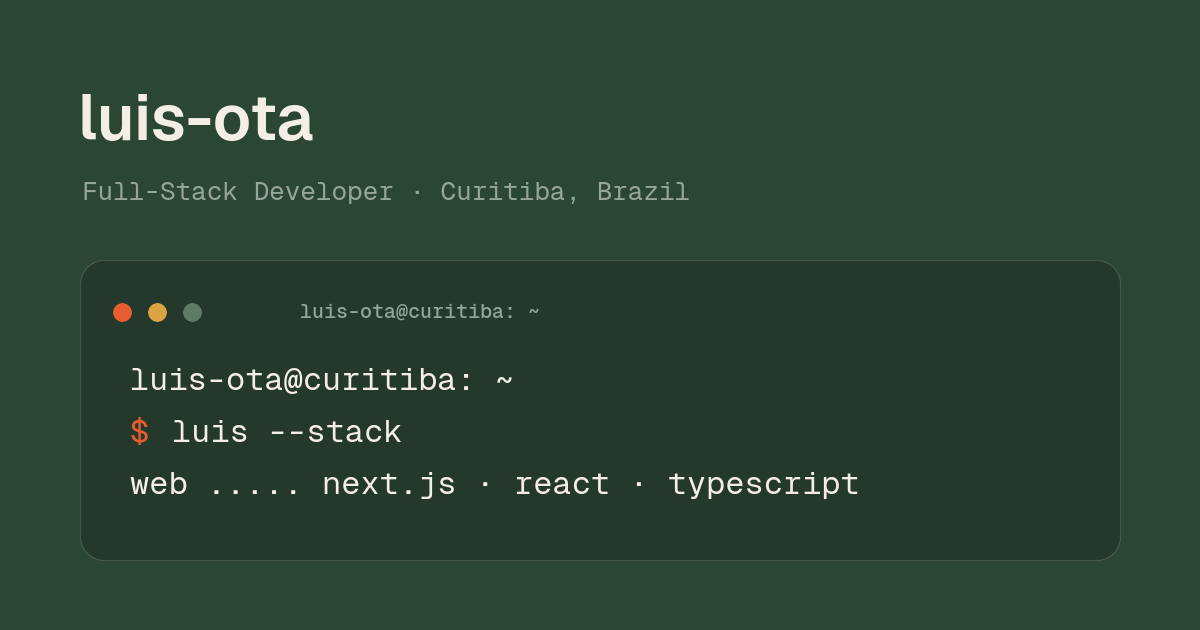
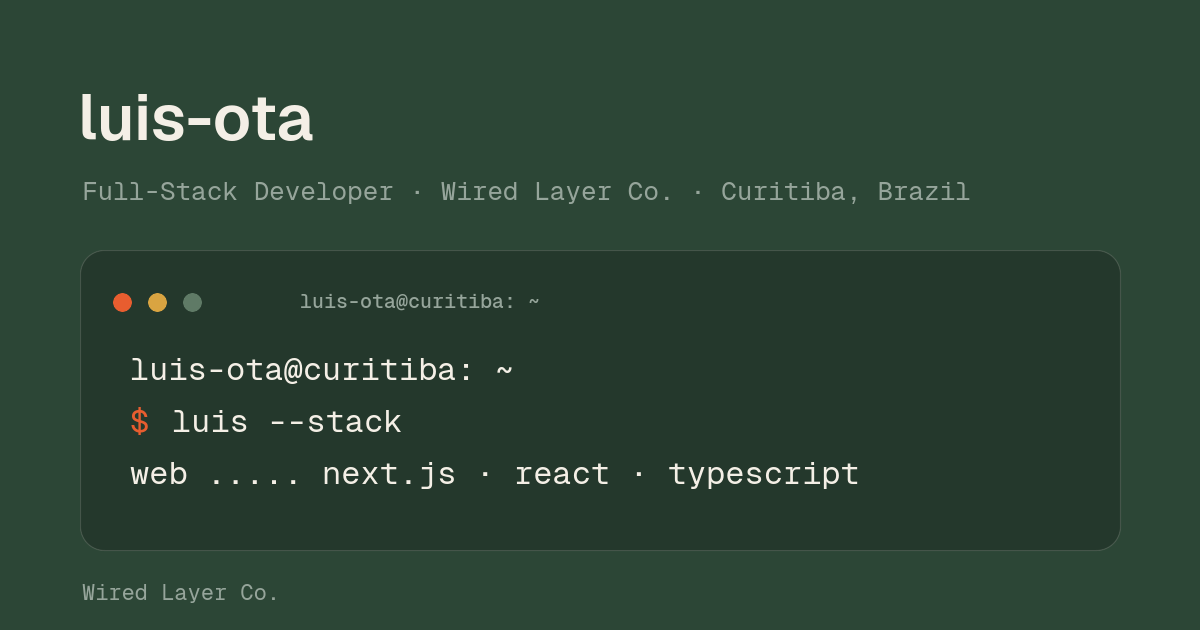
Projetos: AfroRetratos com links ao vivo/GitHub e Wired Layer Co. na identidade
- Novo projeto em destaque: plataforma cultural AfroRetratos (Next.js, Postgres, Redis) com links para afroretratos.wired.rs e GitHub
- Wired Layer Co. no hero, sobre, ficha técnica, rodapé, meta description, og:site_name e JSON-LD (worksFor)
- Links de projeto com área de toque 44px, sublinhado temático e stagger
- OG image atualizado com a empresa; sitemap lastmod
- PRODUCT.md: AfroRetratos como único projeto público nomeado

diff --git a/public/i18n.js b/public/i18n.js
@@ -10,7 +10,7 @@
     en: {
       "meta.title": "Luís Otávio · Full-Stack Developer in Curitiba",
       "meta.description":
-        "Full-stack developer based in Curitiba, Brazil. Custom websites, software systems, mobile apps, process automation, and AI solutions for your business.",
+        "Full-stack developer at Wired Layer Co., based in Curitiba, Brazil. Custom websites, software systems, mobile apps, process automation, and AI solutions for your business.",
       "meta.ogTitle": "Luís Otávio · Full-Stack Developer in Curitiba",
       "meta.ogDescription": "Software, web, mobile, and automation solutions for your business.",
       "meta.ogLocale": "en_US",
@@ -29,7 +29,7 @@
       "hero.eyebrow": "Full-Stack Developer · Curitiba, Brazil",
       "hero.title": "Software, web, mobile, and automation solutions for your business",
       "hero.sub":
-        'I\'m <strong>Luís Otávio</strong>, a full-stack developer based in Curitiba, Brazil. I build web applications, custom systems, mobile apps, and process automations that solve real problems for companies and entrepreneurs.',
+        'I\'m <strong>Luís Otávio</strong>, full-stack developer at <strong>Wired Layer Co.</strong> in Curitiba, Brazil. I build web applications, custom systems, mobile apps, and process automations that solve real problems for companies and entrepreneurs.',
       "hero.ctaPrimary": "Book a conversation",
       "hero.ctaSecondary": "View projects",
       "hero.stat1dt": "2,500+",
@@ -42,13 +42,14 @@
       "sobre.eyebrow": "About me",
       "sobre.title": "From Curitiba, building software that solves real problems",
       "sobre.p1":
-        "I work on software solutions aimed at solving real problems for companies and entrepreneurs. I have hands-on experience building RESTful APIs, web applications with Next.js and React, mobile apps with Flutter, Python automation, and data integration.",
+        "I lead <strong>Wired Layer Co.</strong>, a software studio based in Curitiba. I build solutions aimed at solving real problems for companies and entrepreneurs, with hands-on experience in RESTful APIs, web applications with Next.js and React, mobile apps with Flutter, Python automation, and data integration.",
       "sobre.p2":
         "My track record includes software projects in manufacturing and technology companies, covering everything from process automation to complete web platforms and AI-based solutions.",
       "sobre.quote": "Good software is measured by the outcome, not by the technology behind it.",
       "sobre.fichaAria": "Spec sheet",
       "sobre.fichaTitle": "Spec sheet",
       "sobre.fName": "Name",
+      "sobre.fCompany": "Company",
       "sobre.fRole": "Role",
       "sobre.fRoleV": "Full-Stack Developer",
       "sobre.fEdu": "Education",
@@ -100,6 +101,11 @@
       "s5.l3": "Data analysis with generative AI",
       "projetos.eyebrow": "Selected projects",
       "projetos.title": "Work that has already shipped",
+      "p0.tag": "cultural platform",
+      "p0.title": "AfroRetratos cultural platform with anonymous feed",
+      "p0.desc":
+        "Event agenda, institutional pages, and an anonymous community feed with moderation, built for a collective of advertising and cinema students at PUCPR.",
+      "p0.live": "Live site",
       "p1.tag": "mobile",
       "p1.title": "Freight and delivery management app",
       "p1.desc":
@@ -136,7 +142,7 @@
       "canais.email": "Email",
       "canais.location": "Location",
       "canais.locationV": "Curitiba, PR · Brazil",
-      "footer.text": "Luís Otávio Silva Santos · Full-Stack Developer · Curitiba, Brazil",
+      "footer.text": "Wired Layer Co. · Luís Otávio Silva Santos · Full-Stack Developer · Curitiba, Brazil",
       "footer.back": "Back to top ↑",
       "terminal.lines": [
         "luis-ota@curitiba: ~",
@@ -152,7 +158,7 @@
     pt: {
       "meta.title": "Luís Otávio · Desenvolvedor Full-Stack em Curitiba",
       "meta.description":
-        "Desenvolvedor Full-Stack em Curitiba. Criação de sites, sistemas sob medida, aplicativos mobile, automação de processos e soluções com inteligência artificial para o seu negócio.",
+        "Desenvolvedor Full-Stack na Wired Layer Co., em Curitiba. Criação de sites, sistemas sob medida, aplicativos mobile, automação de processos e soluções com inteligência artificial para o seu negócio.",
       "meta.ogTitle": "Luís Otávio · Desenvolvedor Full-Stack em Curitiba",
       "meta.ogDescription": "Soluções em software, web, mobile e automação para o seu negócio.",
       "meta.ogLocale": "pt_BR",
@@ -171,7 +177,7 @@
       "hero.eyebrow": "Desenvolvedor Full-Stack · Curitiba, PR",
       "hero.title": "Soluções em software, web, mobile e automação para o seu negócio",
       "hero.sub":
-        'Sou o <strong>Luís Otávio</strong>, desenvolvedor full-stack em Curitiba. Crio aplicações web, sistemas sob medida, aplicativos mobile e automações de processos que resolvem problemas reais de empresas e empreendedores.',
+        'Sou o <strong>Luís Otávio</strong>, desenvolvedor full-stack na <strong>Wired Layer Co.</strong>, em Curitiba. Crio aplicações web, sistemas sob medida, aplicativos mobile e automações de processos que resolvem problemas reais de empresas e empreendedores.',
       "hero.ctaPrimary": "Agendar uma conversa",
       "hero.ctaSecondary": "Ver projetos",
       "hero.stat1dt": "2.500+",
@@ -184,13 +190,14 @@
       "sobre.eyebrow": "Sobre mim",
       "sobre.title": "De Curitiba, construindo software que resolve problemas reais",
       "sobre.p1":
-        "Atuo no desenvolvimento de soluções de software voltadas para resolver problemas reais de empresas e empreendedores. Tenho experiência prática no desenvolvimento de APIs RESTful, aplicações web com Next.js e React, aplicativos móveis com Flutter, automação de rotinas em Python e integração de dados.",
+        "À frente da <strong>Wired Layer Co.</strong>, estúdio de software em Curitiba, desenvolvo soluções voltadas a resolver problemas reais de empresas e empreendedores. Tenho experiência prática no desenvolvimento de APIs RESTful, aplicações web com Next.js e React, aplicativos móveis com Flutter, automação de rotinas em Python e integração de dados.",
       "sobre.p2":
         "Minha trajetória inclui projetos de desenvolvimento de sistemas em indústrias e empresas de tecnologia, cobrindo desde a automação de processos até a criação de plataformas web completas e soluções baseadas em Inteligência Artificial.",
       "sobre.quote": "Software bem feito se mede pelo resultado, não pela tecnologia usada.",
       "sobre.fichaAria": "Ficha técnica",
       "sobre.fichaTitle": "Ficha técnica",
       "sobre.fName": "Nome",
+      "sobre.fCompany": "Empresa",
       "sobre.fRole": "Função",
       "sobre.fRoleV": "Desenvolvedor Full-Stack",
       "sobre.fEdu": "Formação",
@@ -242,6 +249,11 @@
       "s5.l3": "Análise de dados com IA generativa",
       "projetos.eyebrow": "Projetos em destaque",
       "projetos.title": "Trabalhos que já saíram do papel",
+      "p0.tag": "plataforma cultural",
+      "p0.title": "Plataforma cultural AfroRetratos com feed anônimo",
+      "p0.desc":
+        "Agenda de eventos, páginas institucionais e feed anônimo da comunidade com moderação, feito para um coletivo de estudantes de Publicidade e Cinema da PUCPR.",
+      "p0.live": "Site no ar",
       "p1.tag": "mobile",
       "p1.title": "App de gestão de fretes e entregas",
       "p1.desc":
@@ -278,7 +290,7 @@
       "canais.email": "E-mail",
       "canais.location": "Localização",
       "canais.locationV": "Curitiba, PR · Brasil",
-      "footer.text": "Luís Otávio Silva Santos · Desenvolvedor Full-Stack · Curitiba, PR",
+      "footer.text": "Wired Layer Co. · Luís Otávio Silva Santos · Desenvolvedor Full-Stack · Curitiba, PR",
       "footer.back": "Voltar ao início ↑",
       "terminal.lines": [
         "luis-ota@curitiba: ~",

diff --git a/public/index.html b/public/index.html
@@ -4,7 +4,7 @@
   <meta charset="UTF-8">
   <meta name="viewport" content="width=device-width, initial-scale=1.0">
   <title>Luís Otávio · Full-Stack Developer in Curitiba</title>
-  <meta name="description" content="Full-stack developer based in Curitiba, Brazil. Custom websites, software systems, mobile apps, process automation, and AI solutions for your business.">
+  <meta name="description" content="Full-stack developer at Wired Layer Co., based in Curitiba, Brazil. Custom websites, software systems, mobile apps, process automation, and AI solutions for your business.">
   <meta name="author" content="Luís Otávio Silva Santos">
   <meta name="robots" content="index, follow">
   <meta name="theme-color" content="#2C4636">
@@ -12,7 +12,7 @@
   <link rel="canonical" href="https://portfolio.wired.rs/">
 
   <meta property="og:type" content="website">
-  <meta property="og:site_name" content="Luís Otávio · Portfolio">
+  <meta property="og:site_name" content="Wired Layer Co.">
   <meta property="og:url" content="https://portfolio.wired.rs/">
   <meta property="og:title" content="Luís Otávio · Full-Stack Developer in Curitiba">
   <meta property="og:description" content="Software, web, mobile, and automation solutions for your business.">
@@ -44,6 +44,11 @@
       "addressCountry": "BR"
     },
     "knowsAbout": ["Next.js", "React", "TypeScript", "Flutter", "Expo", "React Native", "Python", "FastAPI", "PostgreSQL", "Docker", "Nginx", "Linux", "Rust", "Artificial Intelligence", "RAG", "Automation", "Infrastructure", "CI/CD"],
+    "worksFor": {
+      "@type": "Organization",
+      "name": "Wired Layer Co.",
+      "url": "https://portfolio.wired.rs/"
+    },
     "sameAs": [
       "https://www.linkedin.com/in/luis-ota",
       "https://github.com/luis-ota"
@@ -136,9 +141,9 @@
             <span data-i18n="hero.title">Software, web, mobile, and automation solutions for your business</span>
           </h1>
           <p class="hero-sub reveal" data-i18n-html="hero.sub">
-            I'm <strong>Luís Otávio</strong>, a full-stack developer based in Curitiba, Brazil. I build
-            web applications, custom systems, mobile apps, and process automations that solve real
-            problems for companies and entrepreneurs.
+            I'm <strong>Luís Otávio</strong>, full-stack developer at <strong>Wired Layer Co.</strong>
+            in Curitiba, Brazil. I build web applications, custom systems, mobile apps, and process
+            automations that solve real problems for companies and entrepreneurs.
           </p>
           <div class="hero-actions reveal">
             <a class="btn btn-primary" href="https://agendar.wired.rs" target="_blank" rel="noopener">
@@ -212,11 +217,11 @@
         </div>
         <div class="sobre-grid">
           <div class="sobre-texto reveal">
-            <p data-i18n="sobre.p1">
-              I work on software solutions aimed at solving real problems for companies and
-              entrepreneurs. I have hands-on experience building RESTful APIs, web applications
-              with Next.js and React, mobile apps with Flutter, Python automation, and data
-              integration.
+            <p data-i18n-html="sobre.p1">
+              I lead <strong>Wired Layer Co.</strong>, a software studio based in Curitiba. I build
+              solutions aimed at solving real problems for companies and entrepreneurs, with
+              hands-on experience in RESTful APIs, web applications with Next.js and React, mobile
+              apps with Flutter, Python automation, and data integration.
             </p>
             <p data-i18n="sobre.p2">
               My track record includes software projects in manufacturing and technology companies,
@@ -233,6 +238,10 @@
               <div class="ficha-linha">
                 <dt data-i18n="sobre.fName">Name</dt>
                 <dd>Luís Otávio Silva Santos</dd>
+              </div>
+              <div class="ficha-linha">
+                <dt data-i18n="sobre.fCompany">Company</dt>
+                <dd>Wired Layer Co.</dd>
               </div>
               <div class="ficha-linha">
                 <dt data-i18n="sobre.fRole">Role</dt>
@@ -349,6 +358,30 @@
           <h2 class="section-title" data-i18n="projetos.title">Work that has already shipped</h2>
         </div>
         <div class="projetos-lista">
+          <article class="projeto reveal">
+            <div class="projeto-info">
+              <p class="projeto-meta"><span class="projeto-tag" data-i18n="p0.tag">cultural platform</span><span>Next.js · PostgreSQL · Redis</span></p>
+              <h3 data-i18n="p0.title">AfroRetratos cultural platform with anonymous feed</h3>
+              <p class="projeto-desc" data-i18n="p0.desc">
+                Event agenda, institutional pages, and an anonymous community feed with moderation,
+                built for a collective of advertising and cinema students at PUCPR.
+              </p>
+              <p class="projeto-tec">Next.js 16 · React 19 · TypeScript · PostgreSQL · Drizzle · Redis · Tailwind CSS · Docker</p>
+              <p class="projeto-links">
+                <a href="https://afroretratos.wired.rs/" target="_blank" rel="noopener">
+                  <span data-i18n="p0.live">Live site</span>
+                  <span aria-hidden="true">↗</span>
+                </a>
+                <a href="https://github.com/luis-ota/afroretratos" target="_blank" rel="noopener">
+                  GitHub
+                  <span aria-hidden="true">↗</span>
+                </a>
+              </p>
+            </div>
+            <div class="projeto-glyph" aria-hidden="true">
+              <svg viewBox="0 0 48 48" fill="none" stroke="currentColor" stroke-width="1.5" stroke-linecap="round" stroke-linejoin="round"><circle cx="24" cy="17" r="7.5"/><path d="M10 42c1.5-8.5 7-13 14-13s12.5 4.5 14 13"/></svg>
+            </div>
+          </article>
           <article class="projeto reveal">
             <div class="projeto-info">
               <p class="projeto-meta"><span class="projeto-tag" data-i18n="p1.tag">mobile</span><span>Flutter · Dart · Firebase</span></p>
@@ -551,7 +584,7 @@
   <footer class="site-footer">
     <div class="container footer-inner">
       <p class="footer-marca"><span class="brand-mark" aria-hidden="true"><svg viewBox="0 0 24 24" fill="none" stroke="currentColor" stroke-width="1.8" stroke-linecap="round" stroke-linejoin="round"><rect x="3" y="4" width="18" height="16" rx="2.5"/><path d="M7.5 9.25l2.75 2.75-2.75 2.75"/><path d="M13 14.75h3.75"/></svg></span> luis-ota</p>
-      <p class="footer-texto">© <span id="ano">2026</span> <span data-i18n="footer.text">Luís Otávio Silva Santos · Full-Stack Developer · Curitiba, Brazil</span></p>
+      <p class="footer-texto">© <span id="ano">2026</span> <span data-i18n="footer.text">Wired Layer Co. · Luís Otávio Silva Santos · Full-Stack Developer · Curitiba, Brazil</span></p>
       <a class="footer-voltar" href="#topo" data-i18n="footer.back">Back to top ↑</a>
     </div>
   </footer>

diff --git a/public/styles.css b/public/styles.css
@@ -631,6 +631,7 @@ button { font: inherit; color: inherit; background: none; border: 0; cursor: poi
 .projetos-lista .projeto:nth-child(2) { --d: 70ms; }
 .projetos-lista .projeto:nth-child(3) { --d: 140ms; }
 .projetos-lista .projeto:nth-child(4) { --d: 210ms; }
+.projetos-lista .projeto:nth-child(5) { --d: 280ms; }
 
 .projeto {
   display: flex;
@@ -687,6 +688,33 @@ button { font: inherit; color: inherit; background: none; border: 0; cursor: poi
   font-size: 0.76rem;
   color: var(--musgo-texto);
   margin-top: 16px;
+}
+
+.projeto-links {
+  display: flex;
+  flex-wrap: wrap;
+  gap: 0 20px;
+  margin-top: 4px;
+}
+.projeto-links a {
+  display: inline-flex;
+  align-items: center;
+  gap: 6px;
+  padding: 12px 0;
+  font-family: var(--fonte-mono);
+  font-size: 0.78rem;
+  font-weight: 500;
+  color: var(--pinheiro);
+  text-decoration: underline;
+  text-decoration-color: var(--linha-forte);
+  text-decoration-thickness: 1px;
+  text-underline-offset: 4px;
+  transition: color 0.25s var(--ease-out), text-decoration-color 0.25s var(--ease-out);
+}
+.projeto-links a span[aria-hidden] { font-size: 0.72rem; }
+.projeto-links a:hover {
+  color: var(--sinal-texto);
+  text-decoration-color: var(--sinal);
 }
 
 .projeto-glyph {

diff --git a/PRODUCT.md b/PRODUCT.md
@@ -42,19 +42,27 @@ default language with a Brazilian Portuguese option.
   Docker, Docker Compose, and Nginx reverse proxy in front.
 - Bilingual: English default, PT-BR toggle, client-side, preference persisted.
 - Confirmed facts only: Swaptop 2,500+ downloads, PUCPR Software Engineering
-  undergraduate, the four anonymous project descriptions, and the published
+  undergraduate, the anonymous project descriptions, and the published
   contact details (WhatsApp, e-mail, LinkedIn, GitHub, location).
-- No client names, logos, or testimonials may be added; projects stay anonymous.
+- AfroRetratos is the one named, public project: may be linked to its live site
+  (afroretratos.wired.rs) and GitHub repo. All other client work stays anonymous
+  with no client names, logos, or testimonials.
 - SEO metadata, JSON-LD, robots.txt, and sitemap.xml must stay valid.
 - Respect `prefers-reduced-motion`; keep the page lightweight and fast.
 
 ## Brand Commitments
 
-Name and handle `luis-ota`. Brazilian Portuguese voice in PT mode; direct,
+Name and handle `luis-ota`. Luís Otávio operates as **Wired Layer Co.**, his
+software studio; the company name appears in the about copy, spec sheet, footer,
+metadata, and JSON-LD. Brazilian Portuguese voice in PT mode; direct,
 plain-spoken, outcome-focused English in EN mode. No fabricated proof.
 
 ## Evidence on Hand
 
+- AfroRetratos: live cultural platform (Next.js 16, React 19, PostgreSQL,
+  Drizzle, Redis, Tailwind CSS, Docker) with event agenda and anonymous
+  moderated community feed, built for a PUCPR advertising and cinema collective.
+  Live: https://afroretratos.wired.rs · Code: github.com/luis-ota/afroretratos
 - Four anonymized projects: freight/delivery mobile app (Flutter, Firebase);
   AI data analysis and RAG platform (Python, LlamaIndex, Gemini); factory
   ticketing and monitoring web system (Next.js, Flask, PostgreSQL); Swaptop CLI
